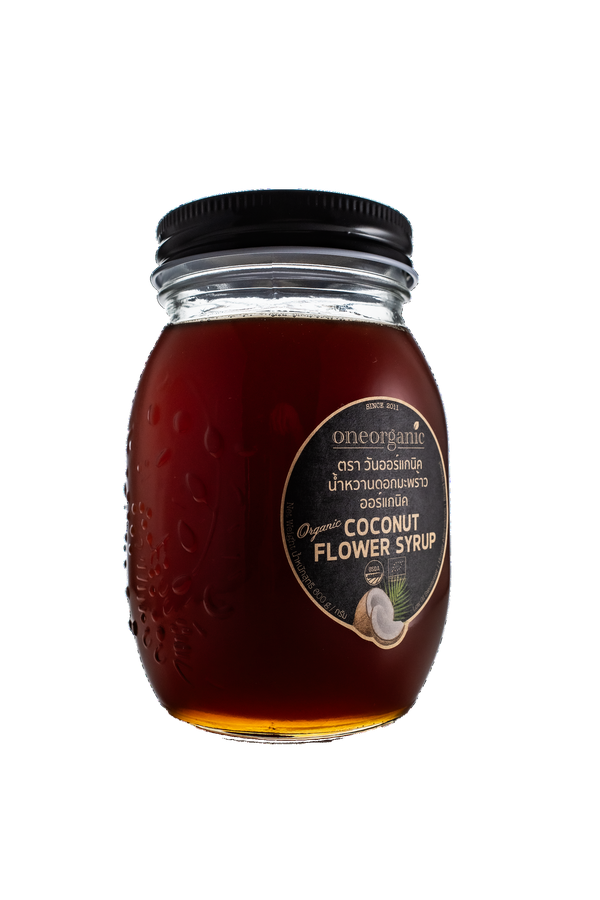
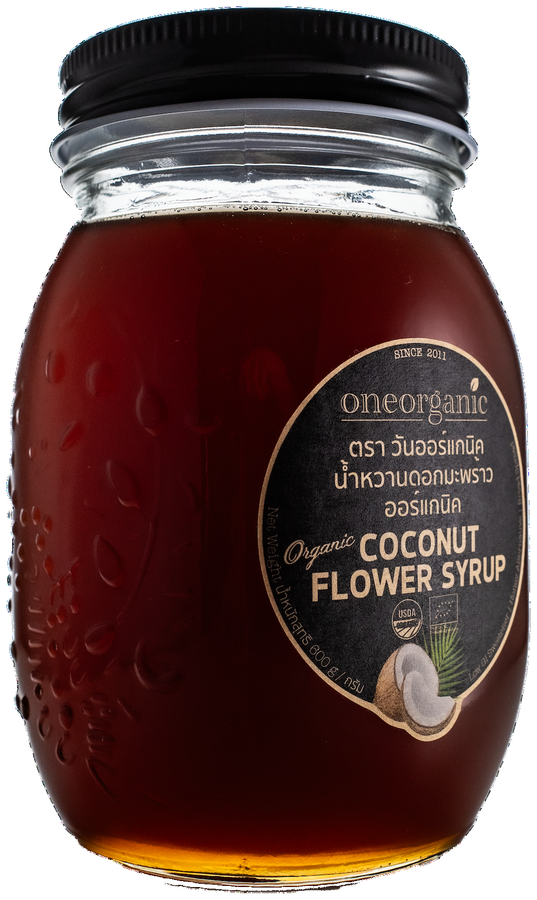
Rework VCO and syrup homepage sections to use real grouped/trimmed photography
Swap the VCO shelf to the real 3-jar composite photo instead of three
independently-sized crops with guessed proportions. Trim the syrup jar's
source image, which had ~45% dead transparent padding around the actual
jar. Unify both sections on a shared ProductHero component (fixed-height
tinted card, image scaled to fit) so they render at matching visual
weight instead of one being width-capped and the other height-capped.
Drops the redundant "600G" caption and the per-section "Shop X" buttons
as a result of the layout consolidation.

diff --git a/frontend/src/pages/Home.jsx b/frontend/src/pages/Home.jsx
@@ -6,15 +6,12 @@ import MissionBand from '../components/MissionBand.jsx';
 import PillTag from '../components/PillTag.jsx';
 import IconChip from '../components/IconChip.jsx';
 import { products } from '../data/products.js';
-import { heroCoconut, brandStoryPhoto } from '../assets/images/index.js';
+import { heroCoconut, brandStoryPhoto, vcoJars } from '../assets/images/index.js';
 import { usdaSeal, euSeal } from '../assets/brand/index.js';
 
 const vcoItems = products.filter((p) => p.sizeGroup === 'vco');
 const syrupItems = products.filter((p) => p.sizeGroup === 'syrup');
 const soapItems = products.filter((p) => p.sizeGroup === 'soap');
-
-const sizeOf = (label) => parseFloat(label) || 0;
-const vcoShelf = [...vcoItems].sort((a, b) => sizeOf(b.optionLabel) - sizeOf(a.optionLabel));
 
 const soapHighlights = ['No SLS', 'No SLES', 'No Sulphates', 'No Preservatives', 'No Fragrances', 'Handcrafted'];
 const soapUsage = [
@@ -27,6 +24,30 @@ function CertBadges({ showEu = true }) {
     <div style={{ display: 'flex', alignItems: 'center', gap: 12, flexShrink: 0 }}>
       <img src={usdaSeal} alt="USDA Organic certified" style={{ height: 40, width: 'auto' }} />
       {showEu && <img src={euSeal} alt="EU Organic certified" style={{ height: 26, width: 'auto', borderRadius: 3 }} />}
+    </div>
+  );
+}
+
+const PRODUCT_HERO_HEIGHT = 380;
+
+function ProductHero({ image, alt }) {
+  return (
+    <div
+      style={{
+        background: 'var(--color-tint)',
+        borderRadius: 'var(--radius-md)',
+        padding: '20px',
+        display: 'flex',
+        alignItems: 'center',
+        justifyContent: 'center',
+        height: PRODUCT_HERO_HEIGHT,
+      }}
+    >
+      <img
+        src={image}
+        alt={alt}
+        style={{ maxWidth: '100%', maxHeight: '100%', width: 'auto', height: 'auto', objectFit: 'contain', display: 'block' }}
+      />
     </div>
   );
 }
@@ -68,7 +89,7 @@ function ProductShelf({ items, heights, gap = 28, maxItemWidth = 130 }) {
   );
 }
 
-function ProductLine({ eyebrow, heading, intro, shelf, highlights, usage, shopHref, showEu }) {
+function ProductLine({ eyebrow, heading, intro, shelf, highlights, usage, showEu }) {
   return (
     <div style={{ maxWidth: 'var(--page-max-width)', margin: '0 auto', padding: '56px var(--gutter)' }}>
       <div style={{ display: 'flex', justifyContent: 'space-between', alignItems: 'flex-start', flexWrap: 'wrap', gap: 20, marginBottom: 32 }}>
@@ -82,7 +103,7 @@ function ProductLine({ eyebrow, heading, intro, shelf, highlights, usage, shopHr
         <CertBadges showEu={showEu} />
       </div>
 
-      <div style={{ display: 'grid', gridTemplateColumns: 'repeat(auto-fit, minmax(260px, 1fr))', gap: 36, alignItems: 'start' }}>
+      <div style={{ display: 'grid', gridTemplateColumns: 'repeat(auto-fit, minmax(260px, 1fr))', gap: 36, alignItems: 'center' }}>
         {shelf}
 
         <div>
@@ -107,13 +128,6 @@ function ProductLine({ eyebrow, heading, intro, shelf, highlights, usage, shopHr
           </div>
         </div>
       </div>
-
-      <Button
-        to={shopHref}
-        style={{ marginTop: 32, background: 'transparent', color: 'var(--color-label)', border: '0.5px solid var(--color-border)', padding: '10px 20px' }}
-      >
-        Shop {heading} →
-      </Button>
     </div>
   );
 }
@@ -174,10 +188,9 @@ export default function Home() {
         eyebrow="one of earth's greatest gifts to mankind"
         heading="Virgin Coconut Oil"
         intro="Cold-pressed and centrifuge-extracted, with low moisture, high purity, and high lauric acid — fast-absorbing, gluten free, and vegan."
-        shelf={<ProductShelf items={vcoShelf} heights={[190, 160, 120]} />}
+        shelf={<ProductHero image={vcoJars} alt="Virgin Coconut Oil, 900ml, 450ml, and 125ml glass jars" />}
         highlights={vcoItems[0].highlights}
         usage={vcoItems[0].usageItems}
-        shopHref="/shop?category=Coconut+Oil"
         showEu
       />
 
@@ -186,10 +199,9 @@ export default function Home() {
           eyebrow="one of the most nutritious sugars"
           heading="Coconut Syrup"
           intro="Low glycemic index, high in minerals, and mildly sweet — gluten free and vegan."
-          shelf={<ProductShelf items={syrupItems} heights={[180]} />}
+          shelf={<ProductHero image={syrupItems[0].image} alt={syrupItems[0].alt} />}
           highlights={syrupItems[0].highlights}
           usage={syrupItems[0].usageItems}
-          shopHref="/shop?category=Coconut+Syrup"
           showEu
         />
       </div>
@@ -202,7 +214,6 @@ export default function Home() {
           shelf={<ProductShelf items={soapItems} heights={[110, 110, 110, 110]} gap={16} maxItemWidth={88} />}
           highlights={soapHighlights}
           usage={soapUsage}
-          shopHref="/shop?category=Bath+%26+Body"
           showEu={false}
         />
       </div>
